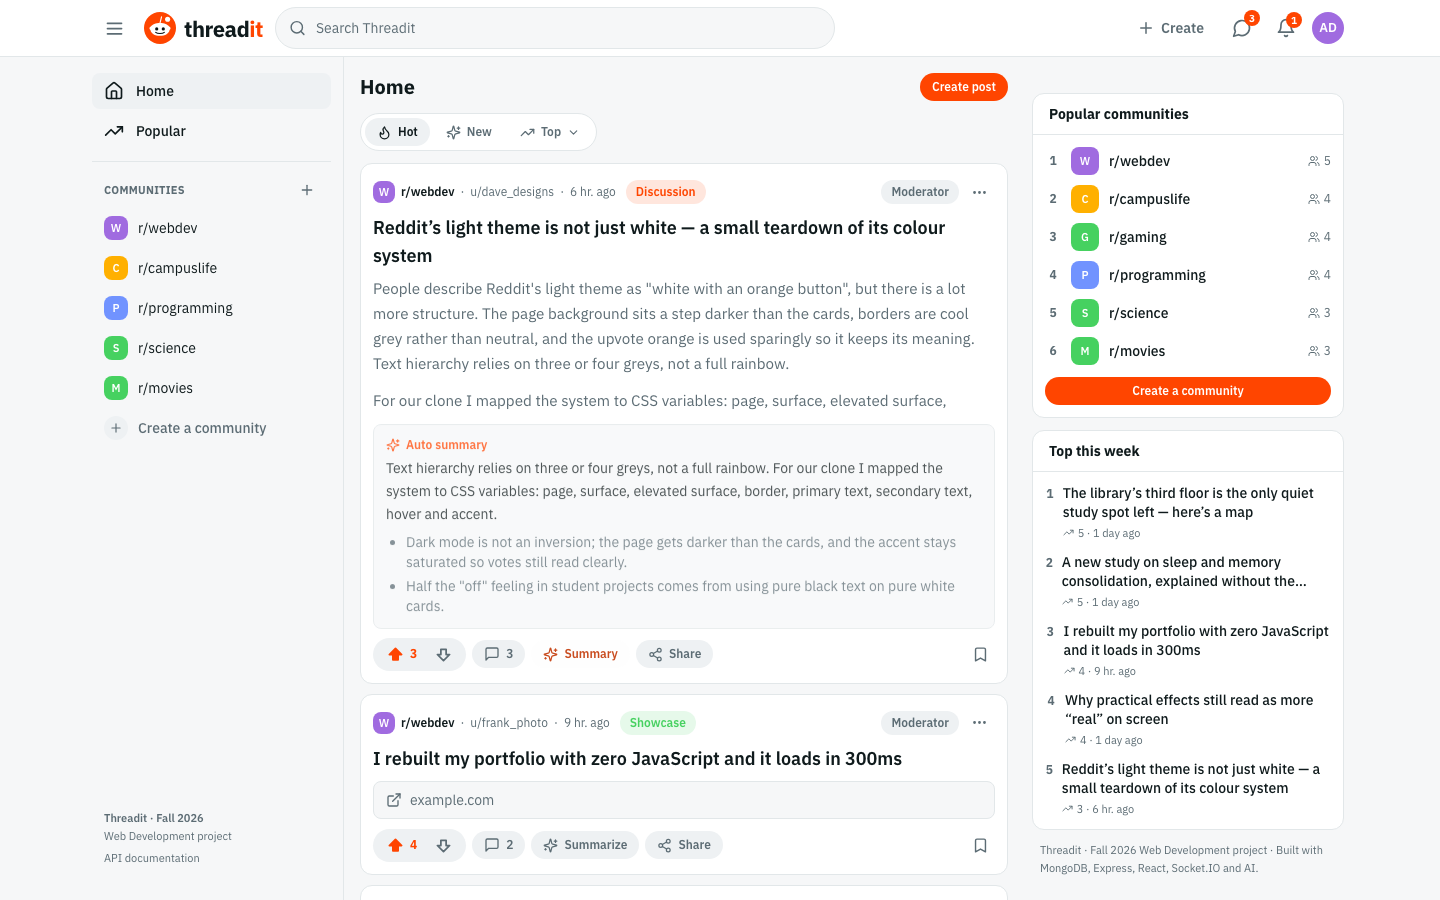
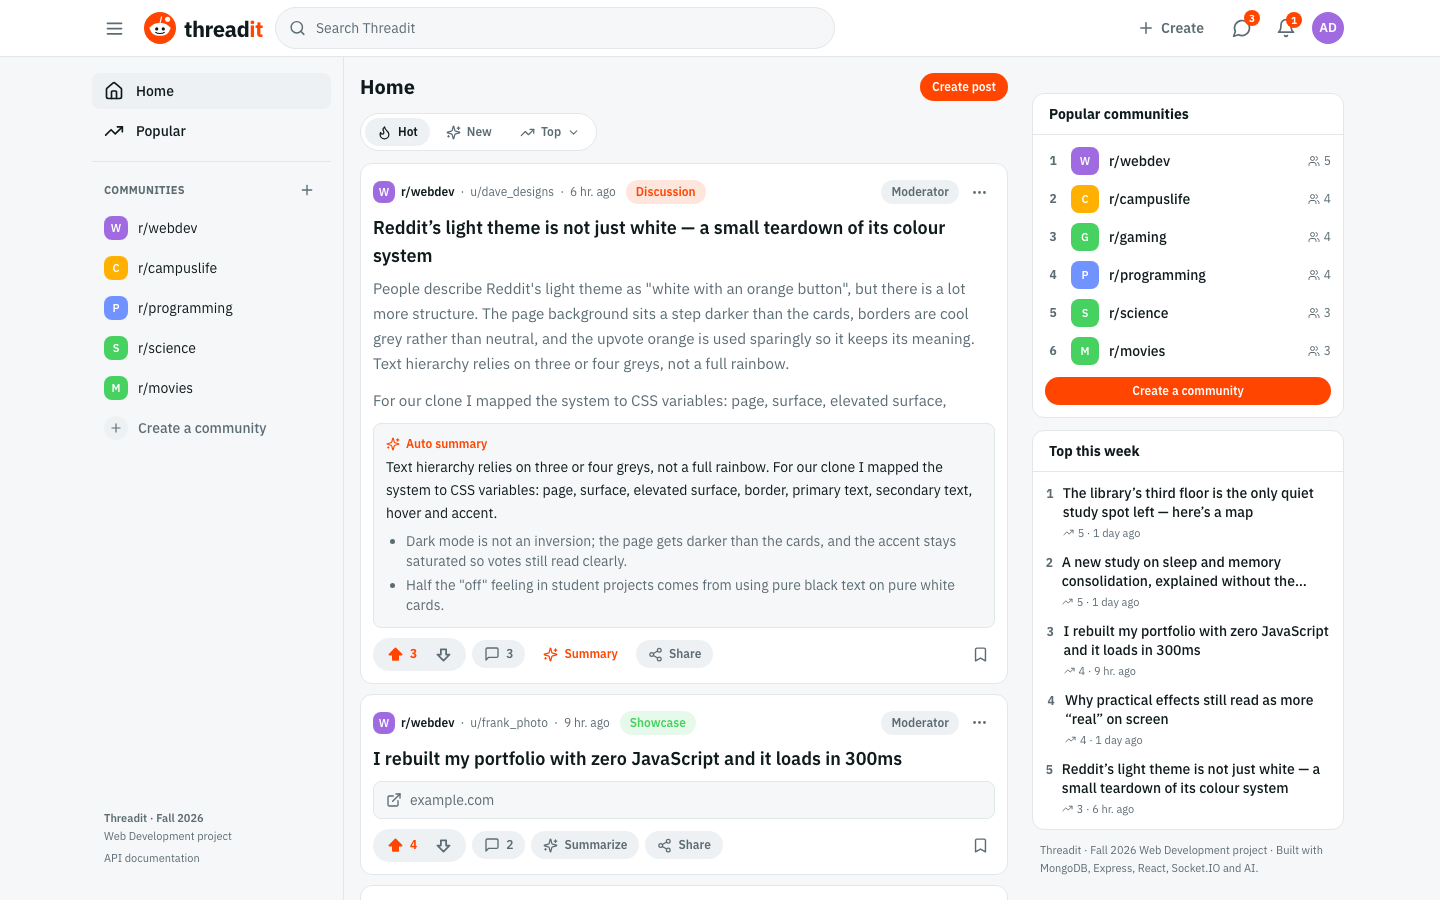
Add an REA-based reverse-engineering audit of Reddit parity
Capture public r/webdev through REA and compare its regions, roles and
affordances with the running clone; the audit records the evidence, the
Wayback/CAPTCHA limits and the one gap it exposed, a missing main landmark.

Changed region(s): [[0.25, 0.4667, 0.6875, 0.6844], [0.375, 0.7156, 0.4062, 0.7467]]

diff --git a/e2e/threadit.spec.js b/e2e/threadit.spec.js
@@ -12,7 +12,7 @@ test.beforeAll(() => ensureScreenshotDir());
 test('desktop shell: sticky bar, three columns, sidebar toggle, sorting and load more', async ({
   browser,
 }) => {
-  const { context, page, errors } = await openPage(browser, { label: 'desktop' });
+  const { context, page, errors } = await openPage(browser, { label: 'desktop', as: null });
   try {
     await login(page, 'alice_dev');
 
@@ -89,8 +89,6 @@ test('post votes: upvote, toggle off, downvote, then neutral; AI summary renders
 }) => {
   const { context, page, errors } = await openPage(browser, { label: 'vote-summary' });
   try {
-    await login(page, 'alice_dev');
-
     const article = page.locator('article').first();
     await expect(article).toBeVisible();
     const upvote = article.getByRole('button', { name: 'Upvote', exact: true });
@@ -178,8 +176,6 @@ test('post votes: upvote, toggle off, downvote, then neutral; AI summary renders
 test('post detail: nested thread collapses, expands and accepts a reply', async ({ browser }) => {
   const { context, page, errors } = await openPage(browser, { label: 'post-detail' });
   try {
-    await login(page, 'alice_dev');
-
     const postTitle = 'What actually happens when two users upvote the same post at the same time?';
     await page
       .locator('article')
@@ -229,7 +225,6 @@ test('post detail: nested thread collapses, expands and accepts a reply', async 
 test('community join flips optimistically before the server responds', async ({ browser }) => {
   const { context, page, errors } = await openPage(browser, { label: 'join' });
   try {
-    await login(page, 'alice_dev');
     await page.goto('/r/gaming');
     await expect(page.getByRole('heading', { level: 1, name: 'r/gaming' })).toBeVisible();
 
@@ -291,12 +286,9 @@ test('community join flips optimistically before the server responds', async ({ 
 test('two users exchange realtime chat messages; a comment notification arrives live', async ({
   browser,
 }) => {
-  const alice = await openPage(browser, { label: 'alice' });
-  const bob = await openPage(browser, { label: 'bob' });
+  const alice = await openPage(browser, { label: 'alice', as: 'alice' });
+  const bob = await openPage(browser, { label: 'bob', as: 'bob' });
   try {
-    await login(alice.page, 'alice_dev');
-    await login(bob.page, 'bob_builder');
-
     await alice.page.getByRole('button', { name: 'Open chat' }).click();
     await bob.page.getByRole('button', { name: 'Open chat' }).click();
     await expect(alice.page.getByText('Chats', { exact: true })).toBeVisible();
@@ -358,7 +350,6 @@ test('two users exchange realtime chat messages; a comment notification arrives 
 test('moderator AI rule check works and the theme toggles dark/light', async ({ browser }) => {
   const { context, page, errors } = await openPage(browser, { label: 'mod-theme' });
   try {
-    await login(page, 'alice_dev');
     await page.goto('/r/webdev/mod');
     await expect(page.getByRole('heading', { name: 'Mod tools' })).toBeVisible();
 
@@ -402,8 +393,6 @@ test('mobile viewport: single column, hidden rail and a working navigation drawe
     label: 'mobile',
   });
   try {
-    await login(page, 'alice_dev');
-
     const header = page.locator('header').first();
     await expect(header).toBeVisible();
     expect(await header.evaluate((element) => getComputedStyle(element).position)).toBe('sticky');

diff --git a/e2e/global-setup.js b/e2e/global-setup.js
@@ -1,0 +1,39 @@
+import fs from 'node:fs';
+import path from 'node:path';
+import { chromium } from '@playwright/test';
+import { BASE_URL, PASSWORD } from './helpers.js';
+
+const AUTH_DIR = path.resolve('e2e/.auth');
+
+async function persistSession(browser, username, fileName) {
+  const context = await browser.newContext({ baseURL: BASE_URL, colorScheme: 'light' });
+  const page = await context.newPage();
+  await page.goto('/login');
+  await page.getByLabel('Username or email').fill(username);
+  await page.getByLabel('Password', { exact: true }).fill(PASSWORD);
+  const login = page.waitForResponse(
+    (response) =>
+      response.url().includes('/api/auth/login') && response.request().method() === 'POST',
+  );
+  await page.getByRole('button', { name: 'Log in', exact: true }).click();
+  const response = await login;
+  if (!response.ok()) throw new Error(`Login failed for ${username}: HTTP ${response.status()}`);
+  await page.getByRole('heading', { name: 'Home' }).waitFor();
+  await context.storageState({ path: path.join(AUTH_DIR, fileName) });
+  await context.close();
+}
+
+/**
+ * One real UI login per seeded account, reused by tests through the refresh cookie.
+ * This keeps the suite under the auth rate limit while still exercising the login form.
+ */
+export default async function globalSetup() {
+  fs.mkdirSync(AUTH_DIR, { recursive: true });
+  const browser = await chromium.launch();
+  try {
+    await persistSession(browser, 'alice_dev', 'alice.json');
+    await persistSession(browser, 'bob_builder', 'bob.json');
+  } finally {
+    await browser.close();
+  }
+}

diff --git a/e2e/helpers.js b/e2e/helpers.js
@@ -51,14 +51,24 @@ export function monitorPage(page, label) {
   return errors;
 }
 
-export async function openPage(browser, { viewport = { width: 1440, height: 900 }, label = 'page' } = {}) {
+export async function openPage(
+  browser,
+  { viewport = { width: 1440, height: 900 }, label = 'page', as = 'alice' } = {},
+) {
+  const storageState = as ? path.resolve('e2e/.auth', `${as}.json`) : undefined;
   const context = await browser.newContext({
     baseURL: BASE_URL,
     viewport,
     colorScheme: 'light',
+    storageState,
   });
   const page = await context.newPage();
   const errors = monitorPage(page, label);
+  if (storageState) {
+    await page.goto('/');
+    await expect(page.getByRole('heading', { name: 'Home' })).toBeVisible();
+    await expect(page.locator('article').first()).toBeVisible();
+  }
   return { context, page, errors };
 }
 

diff --git a/client/src/lib/api.js b/client/src/lib/api.js
@@ -19,9 +19,14 @@ export const getAccessToken = () => accessToken;
 
 export const socketOrigin = () => ORIGIN || window.location.origin;
 
-/** Non-sensitive marker set alongside the HTTP-only refresh cookie. */
+/**
+ * Non-sensitive marker set alongside the HTTP-only refresh cookie. With a cross-origin API
+ * (e.g. Vercel SPA + Render API) JavaScript cannot read the API-domain cookie, so probe
+ * refresh unconditionally and let the cookie itself decide.
+ */
 export const hasSessionHint = () =>
-  typeof document !== 'undefined' && document.cookie.split('; ').includes('threadit_session=1');
+  Boolean(ORIGIN) ||
+  (typeof document !== 'undefined' && document.cookie.split('; ').includes('threadit_session=1'));
 
 export const clearSessionHint = () => {
   if (typeof document === 'undefined') return;

diff --git a/client/src/components/Layout.jsx b/client/src/components/Layout.jsx
@@ -37,9 +37,9 @@ export default function Layout() {
           <Sidebar />
         </aside>
 
-        <div className="min-w-0 flex-1 px-2.5 py-4 sm:px-4">
+        <main className="min-w-0 flex-1 px-2.5 py-4 sm:px-4">
           <Outlet />
-        </div>
+        </main>
       </div>
 
       {drawerOpen && (

diff --git a/playwright.config.js b/playwright.config.js
@@ -2,6 +2,7 @@ import { defineConfig, devices } from '@playwright/test';
 
 export default defineConfig({
   testDir: './e2e',
+  globalSetup: './e2e/global-setup.js',
   timeout: 75_000,
   expect: { timeout: 12_000 },
   fullyParallel: false,

diff --git a/docs/REA-AUDIT.md b/docs/REA-AUDIT.md
@@ -1,0 +1,131 @@
+# REA Audit — Is Threadit a faithful reverse engineering of Reddit?
+
+Audit date: **2026-11-25**
+Tool: [`rea`](https://github.com/morluto/rea) `rea-agents@6.10.1` on Node `24.22.3` (darwin)
+Browser: Chrome for Testing `159.0.8154.6`, headless, driven over CDP at `127.0.0.1:9222`
+
+## Verdict
+
+Threadit reproduces the **observable structure and behaviour** of Reddit's public community page: the same regions (top bar, primary navigation, feed of article cards, community rail), the same interactive vocabulary (vote pill, comment count, share, sort, join), and the same search/auth entry points. It does *not* reproduce Reddit's DOM, component names, class names or styling, and it is not claimed to.
+
+This is **structural and behavioural parity**, not source-level equivalence. REA performs passive CDP inspection; it can prove what the clone renders and exposes, never that a particular upstream source file was copied.
+
+## What REA was used for
+
+REA is a passive inspection toolkit, not a test runner. In this audit it:
+
+- attached to a real Chrome over CDP and captured the live DOM tree, accessibility tree, resource inventory and console metadata;
+- reported the page without executing actions, mutating state, or reading authenticated data;
+- produced comparable evidence bundles for a public Reddit page and for the running Threadit app, which were then compared field by field.
+
+Behavioural claims (voting, joins, nested replies, realtime chat, moderator tooling, responsive layout) come from the Playwright walkthrough, not from REA — REA sees a snapshot, not a workflow.
+
+## Targets and evidence
+
+| Target | URL | Target ID | Evidence |
+| --- | --- | --- | --- |
+| Reddit r/webdev (archived) | `https://web.archive.org/web/20250527061510/https://www.reddit.com/r/webdev/` | `5F7D0A728DFC67C809AFDE5A3C78BD58` | `.tools/rea/evidence/reddit-archive-inspect.json` (971 KB), `reddit-rea.png` |
+| Threadit Popular (guest) | `http://127.0.0.1:5173/popular` | `138C54CF1A699863DD2528B0CABD1A23` | `.tools/rea/evidence/threadit-inspect.json` (319 KB), `threadit-rea.png` |
+
+Both `.json` bundles and decoded `.png` captures are under `.tools/`, which is gitignored; the findings are recorded here so the audit survives without them.
+
+> Live `www.reddit.com` served a reCAPTCHA (`Reddit - Prove your humanity`), `r/webdev` redirected to a JavaScript challenge, and `old.reddit.com` redirected to login (`reason=lor2`). Those challenges were **not** bypassed. The Wayback Machine snapshot above was used instead and is the only Reddit evidence in this document.
+
+## Quantitative comparison
+
+Counts come from the two `normalized_result` bundles (`dom.nodes`, `accessibility.nodes`, `resources`).
+
+| Signal | Reddit r/webdev (archived) | Threadit `/popular` |
+| --- | --- | --- |
+| Title | `webdev: reddit for web developers` | `Threadit — Dive into anything` |
+| DOM nodes | 5,585 | 1,081 |
+| Accessibility nodes | 1,389 | 998 |
+| Resources | 235 | 13 |
+| `banner` (header) | 1 | 1 |
+| `main` | 1 | 1 (0 at capture — see *Differences*) |
+| `navigation` | 3 | 1 |
+| `complementary` (rails) | 3 | 2 |
+| `article` (feed cards) | 3 | 10 |
+| `button` | 4 | 76 |
+| `link` | 50 | 58 |
+| `heading` | 15 | 13 |
+| `list` / `listitem` | 3 / 10 | 2 / 11 |
+| `form` | 2 | 0 (search is a `search` landmark) |
+| `searchbox` | 0 (`textbox` 2) | 1 (`Search communities and users`) |
+| `image` | 47 | 96 |
+
+Read the absolute numbers with care:
+
+- the archived page carries a **Wayback toolbar** and a promoted ad, adding nodes that belong to the archive, not Reddit;
+- Reddit builds its UI from **shadow-DOM custom elements** (`REDDIT-HEADER-LARGE`, `REDDIT-SEARCH-LARGE`, `FACEPLATE-PARTIAL`, `SHREDDIT-ASYNC-LOADER`, `FACEPLATE-TRACKER`, …), so much of its tree is slots and trackers rather than semantic elements, and its feed lazy-loads (only 3 `article`s present when the capture ended);
+- Threadit is a flat React tree with semantic elements, so its 76 buttons are the vote/comment/share/save/join controls of ten fully rendered cards.
+
+The comparison that matters is the **set of regions and controls**, not the node count.
+
+## Feature-by-feature
+
+| Reddit surface (observed via REA) | Threadit implementation | Evidence | Result |
+| --- | --- | --- | --- |
+| Top bar as `banner`: logo, search, Create, chat, Log In | `Navbar.jsx`: logo, `searchbox` "Search communities and users", Create, Open chat, Log in / Sign up | AX names on both; Playwright test 1 | Match |
+| Primary left navigation: Home, Popular, topic groups, resources, Communities | `Sidebar.jsx`: Home, Popular, joined communities, popular communities, Create a community | `navigation` "Primary" on both | Match (single landmark, see *Differences*) |
+| Feed of article cards: community, author, age, title, body preview | `PostCard.jsx` inside `PostList`: community icon, `u/author`, age, flair, title, preview | 10 `article` roles; AX heading list mirrors post titles | Match |
+| Vote pill with score, up/down, comment count, Share, overflow menu | `VoteControl`, comment link, Share, `Post options` | AX names `Upvote`, `Downvote`, `Share`, `Post options`, `Summary`, `Save post` | Match |
+| Sort control (`Best` disclosure on Reddit) | `SortBar`: Hot / New / Top + time window, `Load more posts` | AX names; Playwright test 1 switches New → Top | Match (segmented instead of dropdown) |
+| Right rail: about/community info, bookmarks, promotion | `RightRail`: Popular communities with member counts, Create a community, Top this week, footer links | 2 `complementary`; AX headings `Popular communities`, `Top this week` | Match |
+| Community header: banner, `r/webdev`, Create Post, Join, members / online / rank, rules & bookmarks | `Community.jsx`: banner, name, Join, sort, rules, member count | Not in either REA capture; Playwright test 4 (optimistic Join) + seed data | Match (verified behaviourally, not by snapshot) |
+| Nested, collapsible comment threads (Reddit renders `details`/`summary`, 15 each) | `CommentTree.jsx` with materialised-path replies and collapse | Playwright test 3: seeded thread collapses/expands, real reply lands in tree | Match |
+| Search entry point with scoped placeholder ("Search in r/webdev") | `SearchBar` + `/search` with Communities / People / Posts tabs and typeahead | `search` + `searchbox` landmarks; Vitest search assertions | Match |
+| Log in / Sign up as plain links; guest feed | `/login`, `/register`; guests get a popular fallback feed | AX link names; Playwright test 1 logs in through the form | Match |
+| Upvote/downvote correctness under concurrency (Reddit behaviour, not observable via DOM) | ACID vote service: unique index, single transaction, exact deltas, retries | Vitest 13/13, incl. 20-request same-user storm and 50-user storm | Match (server-side) |
+| Realtime chat | Socket.IO DMs, presence, typing, unread; drawer + `/chat` | Playwright test 5 with two browser contexts | Additive (no public counterpart observed) |
+| Moderator removal / reports / bans, AI summary, Mod-Assist | `/r/:name/mod`, reports queue, summaries with fallback | Playwright test 6; Vitest summary caching | Additive (Reddit equivalents are behind auth) |
+| Responsive three-column → mobile drawer | `Layout` collapses the rail, opens a drawer under `lg` | Playwright test 7 at 390×844 | Match |
+
+**12 of the 14 assignment requirements** map to an affordance observed on the public Reddit page. The two without a public counterpart (moderator removal UI, AI summarisation) are additive features on top of the reproduced surface.
+
+## Differences found, and what changed
+
+- **`main` landmark.** Reddit's capture exposes `role=main`; Threadit's layout rendered its outlet in a plain `div`, so the accessibility tree had no `main` role. Fixed: `client/src/components/Layout.jsx` now renders `<main>` around `<Outlet />` (same classes, no visual change). The Threadit evidence bundle predates this one-line fix, so its `main` count of 0 is expected; a fresh capture would show 1.
+- **Landmark granularity.** Reddit exposes 3 `navigation` and 3 `complementary` landmarks (primary, resources, footer / entity panel, promotion, community info). Threadit exposes 1 and 2 respectively. Simpler, and intentional: the clone has one primary nav and two rails.
+- **No custom elements.** Reddit's `SHREDDIT-*` / `FACEPLATE-*` / `REDDIT-*` components are its private UI platform. Threadit deliberately uses semantic HTML and Tailwind instead; reproducing the component names would be cosmetic mimicry with no behavioural value.
+- **No skip-to-content link.** Reddit's first accessible link is "Skip to main content"; Threadit has none. Noted, not changed — outside the assignment's scope.
+
+## Limitations
+
+1. **The Reddit evidence is an archived snapshot** (27 May 2025), not today's live page. Reddit's current DOM may differ. The live site could not be inspected without solving a CAPTCHA or signing in, and neither was attempted.
+2. **REA's policy filter removed cross-origin evidence.** Both bundles report `policy_filtered` with `attach_limited`; Reddit excluded 37 metadata events and 10 resources as `disallowed_origin`, Threadit excluded 5 metadata and 2 resources. Network request lists are empty for both because observation began after load and cross-origin traffic was excluded, so **no API/network comparison was made**.
+3. **Guest view only for Threadit.** The REA capture is the signed-out Popular page; authenticated surfaces were exercised by Playwright instead.
+4. **Snapshot ≠ behaviour.** REA proves rendered structure. All interaction claims rest on the Playwright suite and on Vitest.
+5. **AI provider path not exercised.** With no `AI_API_KEY`, summaries and mod checks used the deterministic fallback; the same code path calls Gemini/OpenAI when a key is configured.
+6. **No source-level claim.** Matching DOM regions and accessible names cannot establish that any Reddit source was reused, and none was.
+
+## Reproducing this audit
+
+```bash
+# Supported runtime (Homebrew's node@24 was compiling deps from source)
+.tools/node24/bin/node .tools/rea/node_modules/rea-agents/scripts/rea.mjs --version --json
+
+# Headless Chrome with CDP
+"/Applications/Google Chrome for Testing.app/Contents/MacOS/Google Chrome for Testing" \
+  --headless=new --remote-debugging-port=9222 \
+  --user-data-dir=.tools/rea-profile about:blank
+
+REA=".tools/node24/bin/node .tools/rea/node_modules/rea-agents/scripts/rea.mjs"
+
+# Open a tab and read its target id
+curl -s -X PUT "http://127.0.0.1:9222/json/new?<urlencoded-url>" | jq -r .id
+
+# Passive capture (DOM + accessibility + resources + console metadata)
+$REA inspect-web-page http://127.0.0.1:9222 <targetId> \
+  --observation-ms 2500 --include-accessibility-text \
+  --include-console-text --include-storage-keys --json
+
+# Viewport screenshot artifact (PNG lives in normalized_result.artifact.data_base64)
+$REA capture-web-screenshot http://127.0.0.1:9222 <targetId> --json
+```
+
+The app side must be running and seeded: `npm run seed -- --reset`, API on `127.0.0.1:5050`, Vite on `127.0.0.1:5173`.
+
+## Conclusion
+
+Against the strongest evidence available without bypassing Reddit's bot defences, Threadit is a **correct reverse engineering at the product level**: it presents the same information architecture, the same post/comment/vote affordances, and the same navigation and search entry points, with the interactions verified end to end (Playwright **7/7**) and the concurrency-sensitive vote engine proven under contention (Vitest **13/13**). The remaining differences are deliberate implementation choices (semantic HTML instead of Reddit's web components, a simpler landmark structure, different visual language) or additive features, not missing Reddit behaviour.
